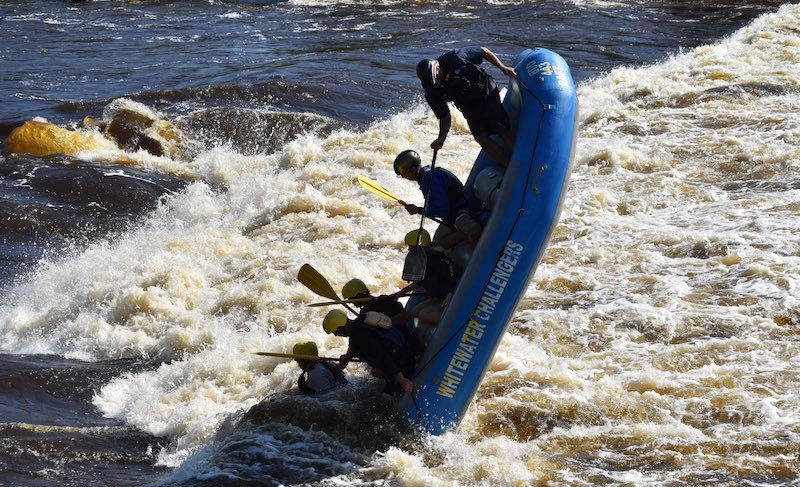
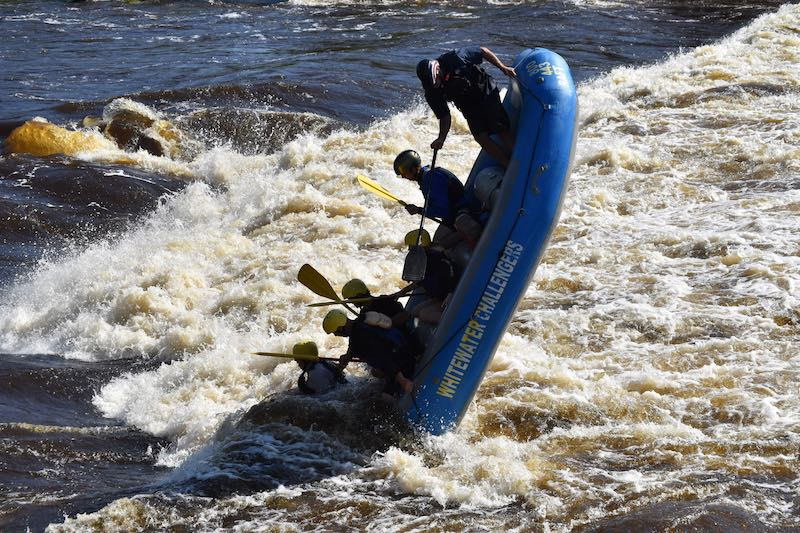
Updates to formatting for hero elements

diff --git a/wwr/styles/rafting.css b/wwr/styles/rafting.css
@@ -9,11 +9,13 @@
 
 :root {
     --accent-color: rgb(151, 185, 236);
+    --background-color: black;
+    --margin: 15px;
 }
 
 header {
     /* background-color: rgb(67, 172, 221); */
-    background-color: black;
+    background-color: var(--background-color);
     text-align: center;
 }
 
@@ -45,6 +47,7 @@ header nav a {
     display: block;
     width: 100%;
     height: auto;
+    margin-bottom: 15px;
 }
 
 h1 {
@@ -59,13 +62,39 @@ h1 {
 }
 
 article {
+    position: absolute;
+    background-color: var(--accent-color);
+    opacity: 0.8;
+    bottom: 10px;
+    padding: 0 8px 0 0;
+}
 
+.hero article img {
+    width: 20%;
+    height: auto;
+    float: left;
+    margin: var(--margin);
+    opacity: none;
+    padding: 0;
+}
+
+article p {
+    padding: 15px;
+}
+
+section h2 {
+    text-align: center;
+}
+
+section p {
+    margin: var(--margin);
 }
 
 footer {
+    margin-top: 15px;
     width: 100%;
     text-align: center;
-    background-color: black;
+    background-color: var(--background-color);
     padding: 15px 0 20px 0;
     color: white;
 
@@ -80,3 +109,4 @@ a img {
     text-align: center;
     padding-top: 15px;
 }
+

diff --git a/wwr/about.html b/wwr/about.html
@@ -28,10 +28,10 @@
     </header> <!--logo and nav element(4 child tags- index.html, about.html. trips.html, contact.html)-->
     <main>
         <div class="hero">
-            <img src="images/about-us.jpg" alt="Going in for a surf">
+            <img src="images/about-us.jpg" alt="Going in for a Surf">
             <h1>About Us — White Water Rafting Company</h1>
             <article>
-                <img src="happy-client.png" alt="Crew and Client Candid">
+                <img src="images/rafting-success.jpg" alt="Crew and Client Candid">
                 <p>Company Mission: Lorem ipsum dolor, sit amet consectetur adipisicing elit. Doloremque, nulla iusto quisquam nisi minima, iste sit animi assumenda, incidunt atque vero? Dolores cumque sequi eveniet? Repudiandae nulla maxime aperiam magni ipsum consequuntur molestias corrupti saepe voluptas exercitationem eveniet obcaecati reiciendis ipsam assumenda fuga animi iure rerum facilis blanditiis accusantium, molestiae similique? Aut asperiores quam accusantium et quo, atque ipsum culpa!</p>
             </article>
         </div>
